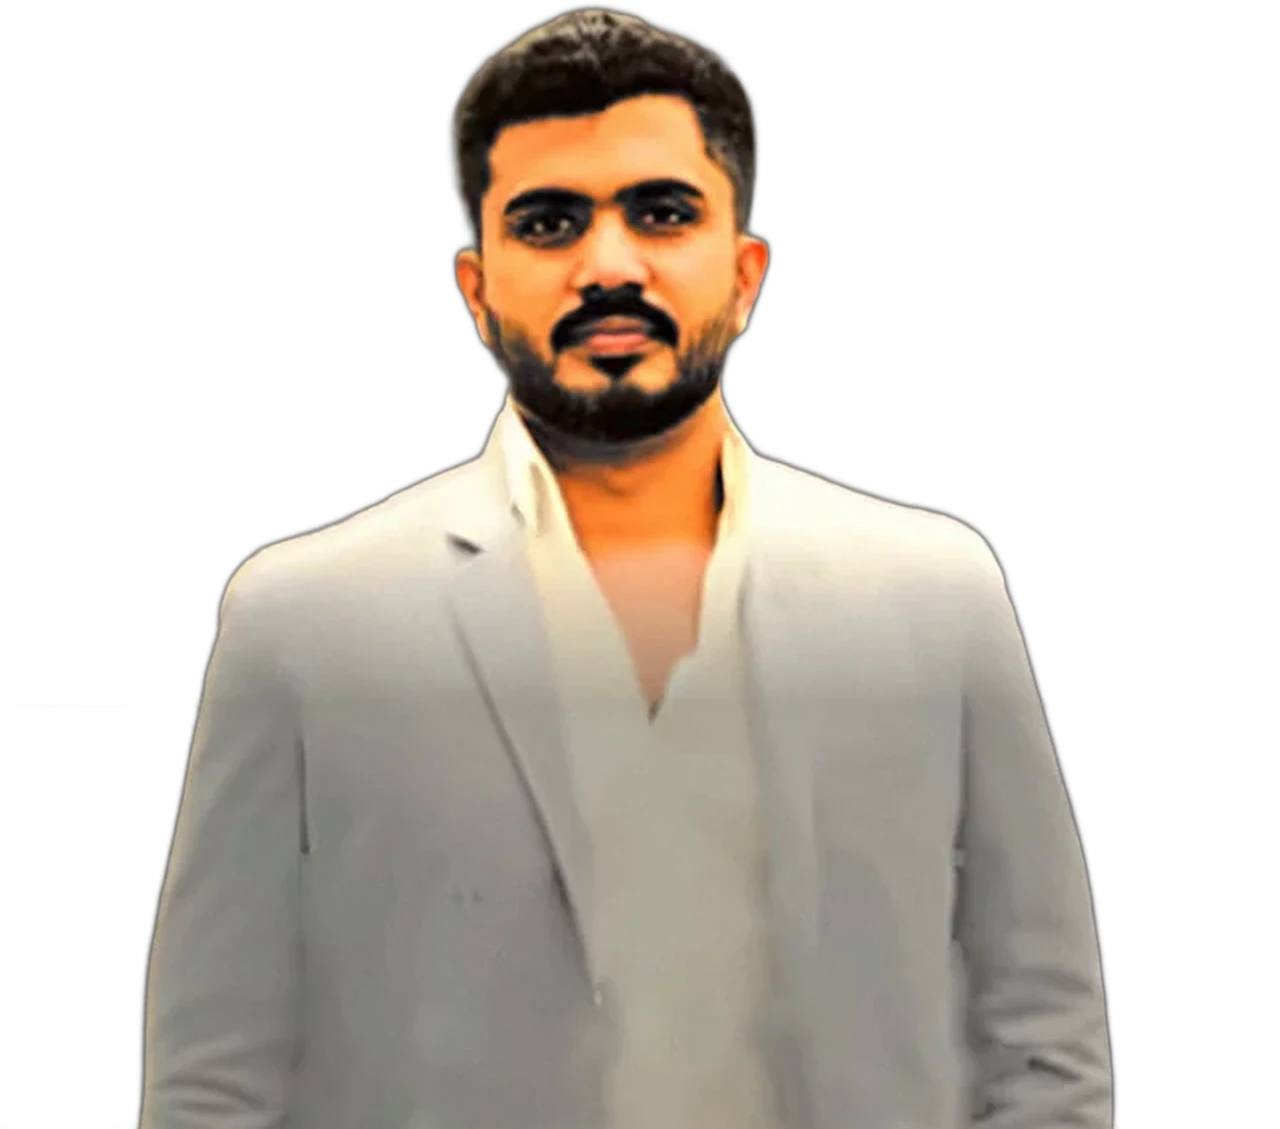
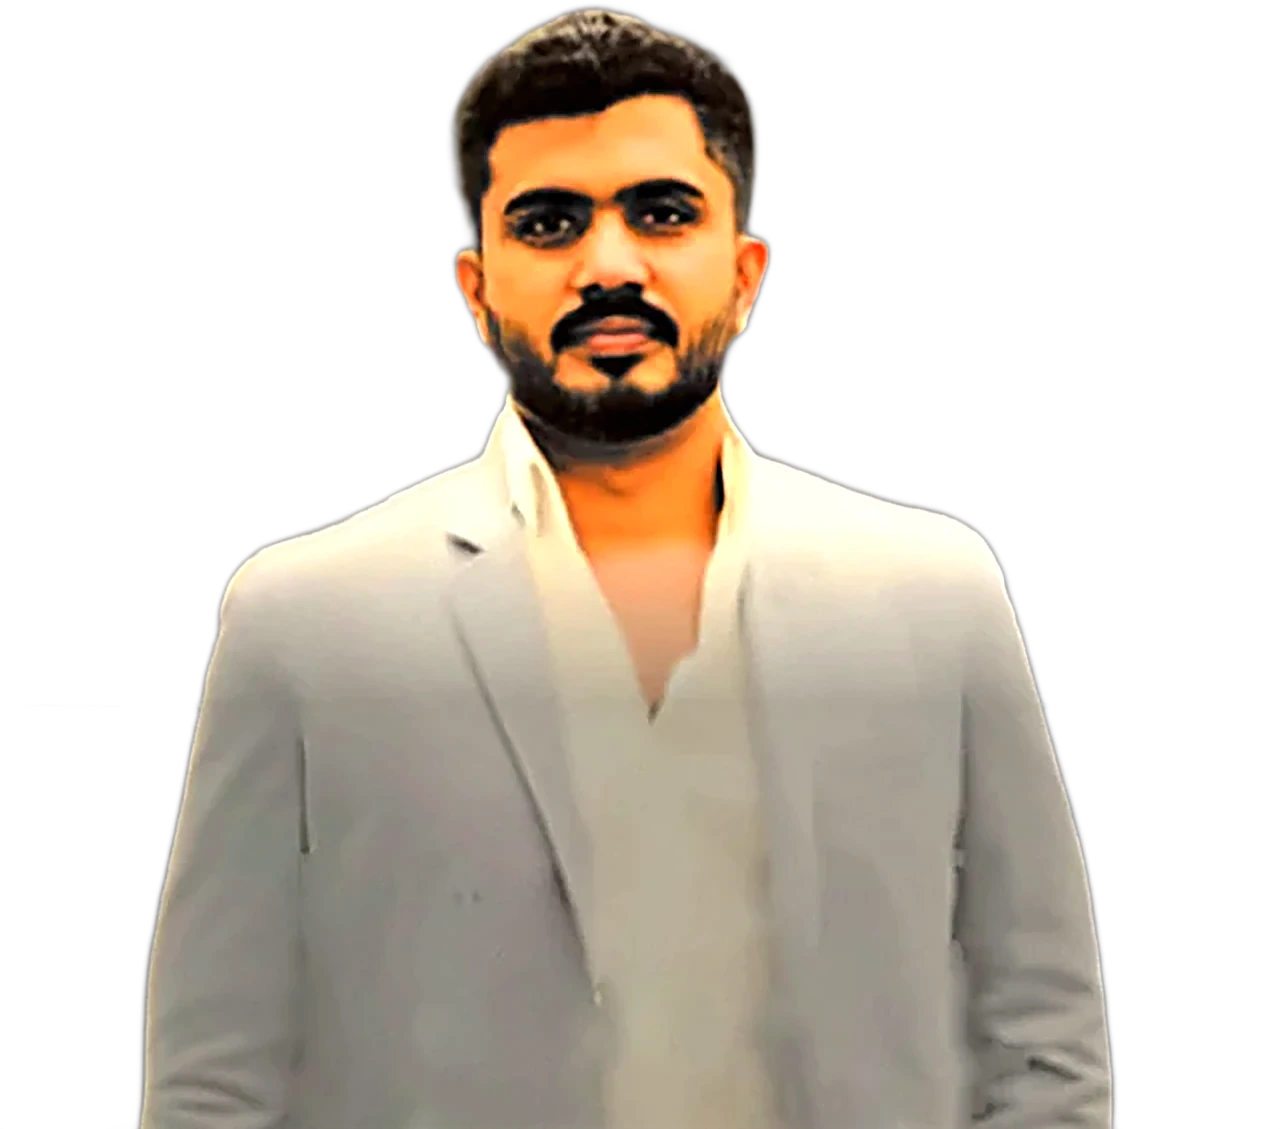
Add files via upload

diff --git a/index.html b/index.html
@@ -440,41 +440,57 @@ html:not(.js) .hero-h .strike::after{transform:none}
 .hero-codes span{display:inline-flex;align-items:center;gap:8px;padding-left:12px;border-left:2px solid var(--c-line-2)}
 .hero-codes em{font-style:normal;color:var(--c-accent)}
 
-/* cover figure */
-.cover{position:relative;margin:0;justify-self:center;width:min(100%,500px);aspect-ratio:4/4.7;transition:transform .7s var(--e-out)}
-.cv-frame{position:absolute;inset:9% 0 0 0;border-radius:28px 28px 22px 22px;overflow:hidden;border:1px solid var(--c-line-2);
-  background:linear-gradient(170deg,color-mix(in oklab,var(--c-paper-3) 92%,transparent),color-mix(in oklab,var(--c-paper-2) 70%,transparent));box-shadow:0 50px 90px -50px var(--c-shadow)}
-.cv-frame::before{content:"";position:absolute;inset:0;background-image:repeating-linear-gradient(to bottom,transparent 0 35px,var(--c-line) 35px 36px),repeating-linear-gradient(to right,transparent 0 79px,var(--c-line) 79px 80px);opacity:.8}
-.cv-frame::after{content:"";position:absolute;inset:auto 0 0 0;height:40%;background:linear-gradient(transparent,color-mix(in oklab,var(--c-paper) 80%,transparent))}
-.cv-chart{position:absolute;inset:0;width:100%;height:100%}
-.cv-chart .s1{stop-color:var(--c-accent);stop-opacity:.32}.cv-chart .s2{stop-color:var(--c-accent);stop-opacity:0}
+/* cover figure: frameless portrait, lit from behind */
+.cover{position:relative;margin:0;justify-self:center;width:min(100%,560px);aspect-ratio:4/4.5;--px:0;--py:0;isolation:isolate}
+.cv-glow{position:absolute;left:8%;right:8%;top:6%;bottom:18%;border-radius:50%;z-index:-2;
+  background:radial-gradient(closest-side,color-mix(in oklab,var(--c-accent) 34%,transparent),transparent 72%),radial-gradient(40% 40% at 72% 30%,color-mix(in oklab,var(--c-cool) 30%,transparent),transparent 70%);
+  filter:blur(28px);opacity:.85;transform:translate(calc(var(--px)*-18px),calc(var(--py)*-14px)) scale(1);animation:glow 7s ease-in-out infinite}
+@keyframes glow{50%{opacity:.6;scale:1.06}}
+.cv-ring{position:absolute;left:4%;right:4%;top:2%;width:92%;height:auto;z-index:-1;overflow:visible;transform:translate(calc(var(--px)*-10px),calc(var(--py)*-8px))}
+.cv-ring circle{fill:none}
+.cv-ring .r1{stroke:var(--c-line-2);stroke-width:1}
+.cv-ring .r3{stroke:var(--c-line);stroke-width:1;stroke-dasharray:2 7}
+.cv-ring .r2{stroke:var(--c-accent);stroke-width:2.2;stroke-linecap:round;stroke-dasharray:18 82;transform-origin:200px 200px;animation:orbit 18s linear infinite;filter:drop-shadow(0 0 6px var(--c-accent-glow))}
+@keyframes orbit{to{transform:rotate(360deg)}}
+.cv-chart{position:absolute;left:-6%;right:-6%;top:12%;bottom:8%;width:112%;height:80%;z-index:-1;-webkit-mask-image:radial-gradient(70% 70% at 50% 50%,#000 40%,transparent 100%);mask-image:radial-gradient(70% 70% at 50% 50%,#000 40%,transparent 100%);transform:translate(calc(var(--px)*-6px),calc(var(--py)*-4px))}
+.cv-chart .s1{stop-color:var(--c-accent);stop-opacity:.22}.cv-chart .s2{stop-color:var(--c-accent);stop-opacity:0}
 .cv-chart .area{fill:url(#cvg);opacity:0;transition:opacity 1.2s 1s var(--e-out)}
-.cv-chart .line{fill:none;stroke:var(--c-accent);stroke-width:2.4;stroke-linejoin:round;stroke-dasharray:1;stroke-dashoffset:1;vector-effect:non-scaling-stroke}
+.cv-chart .line{fill:none;stroke:var(--c-accent);stroke-width:2;stroke-linejoin:round;stroke-dasharray:1;stroke-dashoffset:1;vector-effect:non-scaling-stroke;opacity:.8}
 html.js.ready .cv-chart .line{transition:stroke-dashoffset 2.2s .3s var(--e-io);stroke-dashoffset:0}
 html.js.ready .cv-chart .area{opacity:1}
 html:not(.js) .cv-chart .line{stroke-dashoffset:0}
 .cv-chart .head{fill:var(--c-accent);filter:drop-shadow(0 0 8px var(--c-accent-glow))}
-.cv-axis{position:absolute;left:18px;top:16px;display:flex;gap:10px;align-items:center;font-size:11px;letter-spacing:.12em;color:var(--c-ink-3);z-index:1}
-.cv-axis b{color:var(--c-ink);font-weight:600}
-.cv-img{position:absolute;left:50%;bottom:0;width:104%;max-width:none;height:auto;transform:translateX(-50%);filter:drop-shadow(0 30px 40px var(--c-shadow));z-index:1;opacity:0;transition:opacity .8s var(--e-out)}
+.cv-floor{position:absolute;left:14%;right:14%;bottom:-2%;height:12%;border-radius:50%;z-index:-1;background:radial-gradient(closest-side,var(--c-shadow),transparent);filter:blur(10px)}
+.cv-imgw{position:absolute;left:50%;bottom:0;width:112%;z-index:1;pointer-events:none;
+  transform:translate(calc(-50% + var(--px)*8px),calc(var(--py)*5px));transition:transform .6s var(--e-out);
+  filter:drop-shadow(0 0 1px color-mix(in oklab,var(--c-accent) 35%,transparent)) drop-shadow(-6px -8px 22px color-mix(in oklab,var(--c-accent) 22%,transparent)) drop-shadow(0 40px 50px var(--c-shadow))}
+.cv-img{display:block;width:100%;max-width:none;height:auto;opacity:0;transition:opacity .9s var(--e-out);
+  -webkit-mask-image:linear-gradient(to bottom,#000 78%,transparent 99%);mask-image:linear-gradient(to bottom,#000 78%,transparent 99%)}
 .cv-img.in{opacity:1}
 html:not(.js) .cv-img{opacity:1}
-.cv-t1{position:absolute;left:-14px;top:22%;z-index:2}
-.spec-tag i{background:var(--c-cool)}
-.cv-card{position:absolute;right:-18px;top:30%;z-index:2;display:grid;gap:4px;padding:14px 16px;border-radius:16px;border:1px solid var(--c-line-2);background:color-mix(in oklab,var(--c-paper-3) 90%,transparent);backdrop-filter:blur(10px);box-shadow:0 24px 50px -28px var(--c-shadow);min-width:132px}
-.cv-card small{font-size:10.5px;letter-spacing:.12em;text-transform:uppercase;color:var(--c-ink-3)}
-.cv-card b{font-size:34px;line-height:1;color:var(--c-ink)}
-.cv-card .bars{display:flex;align-items:flex-end;gap:4px;height:26px;margin-top:4px}
-.cv-card .bars i{flex:1;height:var(--h);border-radius:2px 2px 0 0;background:var(--c-accent);opacity:.85;transform-origin:50% 100%}
-html.js.ready .cv-card .bars i{animation:grow .9s var(--e-out) both}
-.cv-card .bars i:nth-child(2){animation-delay:.08s}.cv-card .bars i:nth-child(3){animation-delay:.16s}.cv-card .bars i:nth-child(4){animation-delay:.24s}.cv-card .bars i:nth-child(5){animation-delay:.32s}.cv-card .bars i:nth-child(6){animation-delay:.4s}
+.cv-chip{position:absolute;z-index:2;border:1px solid var(--c-line-2);background:color-mix(in oklab,var(--c-paper-3) 72%,transparent);backdrop-filter:blur(14px) saturate(1.2);-webkit-backdrop-filter:blur(14px) saturate(1.2);box-shadow:0 24px 50px -28px var(--c-shadow),inset 0 1px 0 color-mix(in oklab,white 8%,transparent);
+  transform:translate(calc(var(--px)*var(--d,14px)),calc(var(--py)*var(--d,14px)));transition:transform .7s var(--e-out)}
+.cv-chip{animation:bob 6s ease-in-out infinite}
+@keyframes bob{50%{translate:0 -6px}}
+.cv-tick{left:2%;top:7%;display:flex;gap:10px;align-items:center;height:32px;padding:0 12px;border-radius:99px;font-size:11px;letter-spacing:.12em;color:var(--c-ink-3);--d:22px}
+.cv-tick b{color:var(--c-ink);font-weight:600}
+.cv-t1{left:-4%;top:30%;display:inline-flex;align-items:center;gap:8px;height:32px;padding:0 13px;border-radius:99px;font:500 11.5px var(--f-mono);letter-spacing:.08em;text-transform:uppercase;color:var(--c-ink-2);--d:-16px}
+.cv-t1 i{width:8px;height:8px;border-radius:50%;background:var(--c-cool);box-shadow:0 0 0 4px var(--c-cool-soft)}
+.cv-c1{right:-6%;top:22%;display:grid;gap:4px;padding:14px 16px;border-radius:18px;min-width:136px;--d:26px}
+.cv-c1 small{font-size:10.5px;letter-spacing:.12em;text-transform:uppercase;color:var(--c-ink-3)}
+.cv-c1 b{font-size:36px;line-height:1;color:var(--c-ink)}
+.cv-c1 .bars{display:flex;align-items:flex-end;gap:4px;height:26px;margin-top:4px}
+.cv-c1 .bars i{flex:1;height:var(--h);border-radius:2px 2px 0 0;background:var(--c-accent);opacity:.9;transform-origin:50% 100%}
+html.js.ready .cv-c1 .bars i{animation:grow .9s var(--e-out) both}
+.cv-c1 .bars i:nth-child(2){animation-delay:.08s}.cv-c1 .bars i:nth-child(3){animation-delay:.16s}.cv-c1 .bars i:nth-child(4){animation-delay:.24s}.cv-c1 .bars i:nth-child(5){animation-delay:.32s}.cv-c1 .bars i:nth-child(6){animation-delay:.4s}
 @keyframes grow{from{transform:scaleY(0)}}
-.cv-plate{position:absolute;left:18px;right:18px;bottom:18px;z-index:2;display:flex;justify-content:space-between;align-items:center;gap:12px;flex-wrap:wrap;padding:12px 16px;border-radius:14px;border:1px solid var(--c-line-2);background:color-mix(in oklab,var(--c-paper) 82%,transparent);backdrop-filter:blur(12px)}
+.cv-plate{right:4%;bottom:9%;display:grid;gap:2px;padding:12px 16px;border-radius:16px;--d:-12px}
 .cv-plate b{font:600 19px var(--f-display);letter-spacing:-.01em}
-.cv-plate small{font-size:11px;color:var(--c-ink-3);letter-spacing:.06em}
-@media (max-width:960px){.cover{width:min(100%,420px)}.cv-card{right:-4px}.cv-t1{left:-4px}}
-@media (max-width:520px){.cv-card{padding:10px 12px;min-width:110px}.cv-card b{font-size:26px}.cv-plate b{font-size:16px}}
-
+.cv-plate small{font-size:10.5px;color:var(--c-ink-3);letter-spacing:.06em}
+.cv-t1{animation-delay:-1.5s}.cv-c1{animation-delay:-3s}.cv-plate{animation-duration:8s;animation-delay:-4.5s}
+@media (max-width:960px){.cover{width:min(100%,460px)}.cv-c1{right:-2%}.cv-t1{left:-2%}}
+@media (max-width:520px){.cv-c1{padding:10px 12px;min-width:112px}.cv-c1 b{font-size:28px}.cv-plate{right:2%;bottom:6%}.cv-plate b{font-size:16px}.cv-tick{top:3%}}
+@media (prefers-reduced-motion:reduce){.cv-glow,.cv-ring .r2,.cv-chip{animation:none}}
 /* ticker tape */
 .tape{position:relative;z-index:2;border-block:1px solid var(--c-line-2);background:color-mix(in oklab,var(--c-paper-2) 85%,transparent);overflow:hidden;display:flex;-webkit-mask-image:linear-gradient(90deg,transparent,#000 6%,#000 94%,transparent);mask-image:linear-gradient(90deg,transparent,#000 6%,#000 94%,transparent)}
 .tape-track{display:flex;flex:none;animation:tape 60s linear infinite}
@@ -719,15 +735,16 @@ html.js.ready .cv-card .bars i{animation:grow .9s var(--e-out) both}
       </div>
       <div class="hero-codes mono" aria-label="Syllabuses taught"><span>7115 <em>→</em> 7081</span><span>0450 <em>→</em> 0264</span><span>9609</span></div>
     </div>
-    <figure class="cover" data-tilt="3">
-      <div class="cv-frame" aria-hidden="true">
-        <svg class="cv-chart" viewBox="0 0 400 460" preserveAspectRatio="none"><defs><linearGradient id="cvg" x1="0" y1="0" x2="0" y2="1"><stop offset="0" class="s1"/><stop offset="1" class="s2"/></linearGradient></defs><path class="area" d=""/><path class="line" d="" pathLength="1"/><circle class="head" r="5" cx="-20" cy="-20"/></svg>
-        <span class="cv-axis mono"><b>BIZ</b><span id="cvTick">O / A LEVEL</span></span>
-      </div>
-      <img class="cv-img" src="sohail-ahmed.webp" alt="Sir Sohail Ahmed" width="1280" height="1129" fetchpriority="high">
-      <span class="spec-tag cv-t1"><i></i>Cambridge certified</span>
-      <div class="cv-card cv-c1"><small class="mono">A* students</small><b class="serif-num"><span data-count="500">500</span><span class="pl">+</span></b><span class="bars" aria-hidden="true"><i style="--h:30%"></i><i style="--h:46%"></i><i style="--h:40%"></i><i style="--h:62%"></i><i style="--h:74%"></i><i style="--h:100%"></i></span></div>
-      <figcaption class="cv-plate"><b>Sir Sohail Ahmed</b><small class="mono">Business · O / A Level · Karachi</small></figcaption>
+    <figure class="cover" id="cover">
+      <span class="cv-glow" aria-hidden="true"></span>
+      <svg class="cv-ring" viewBox="0 0 400 400" aria-hidden="true"><circle class="r1" cx="200" cy="200" r="190"/><circle class="r2" cx="200" cy="200" r="190" pathLength="100"/><circle class="r3" cx="200" cy="200" r="150"/></svg>
+      <svg class="cv-chart" viewBox="0 0 400 460" preserveAspectRatio="none" aria-hidden="true"><defs><linearGradient id="cvg" x1="0" y1="0" x2="0" y2="1"><stop offset="0" class="s1"/><stop offset="1" class="s2"/></linearGradient></defs><path class="area" d=""/><path class="line" d="" pathLength="1"/><circle class="head" r="5" cx="-20" cy="-20"/></svg>
+      <span class="cv-floor" aria-hidden="true"></span>
+      <span class="cv-imgw"><img class="cv-img" src="sohail-ahmed.webp" alt="Sir Sohail Ahmed" width="1280" height="1129" fetchpriority="high"></span>
+      <span class="cv-chip cv-tick mono" aria-hidden="true"><b>BIZ</b><span id="cvTick">O / A LEVEL</span></span>
+      <span class="cv-chip cv-t1"><i></i>Cambridge certified</span>
+      <div class="cv-chip cv-c1"><small class="mono">A* students</small><b class="serif-num"><span data-count="500">500</span><span class="pl">+</span></b><span class="bars" aria-hidden="true"><i style="--h:30%"></i><i style="--h:46%"></i><i style="--h:40%"></i><i style="--h:62%"></i><i style="--h:74%"></i><i style="--h:100%"></i></span></div>
+      <figcaption class="cv-chip cv-plate"><b>Sir Sohail Ahmed</b><small class="mono">Business · O / A Level · Karachi</small></figcaption>
     </figure>
   </div>
   <div class="tape" aria-hidden="true"><div class="tape-track" id="tapeA"></div></div>
@@ -1623,7 +1640,12 @@ $$("[data-count]").forEach(el=>{ if(RM||el.getBoundingClientRect().top<innerHeig
   const run=()=>{ const t0=performance.now(); (function f(t){ const p=Math.min(1,(t-t0)/1600), e=1-Math.pow(1-p,4); el.textContent=Math.round(end*e); if(p<1) requestAnimationFrame(f); })(t0); };
   const io=new IntersectionObserver(es=>{ if(es[0].isIntersecting){ run(); io.disconnect(); } },{threshold:.4}); io.observe(el); });
 
-/* cover: portrait fades in once decoded; growth chart draws behind it */
+/* cover: frameless portrait with layered parallax */
+const cover=$("#cover"), heroEl=$(".hero"); if(cover&&heroEl&&FINE&&!RM){ let tx=0,ty=0,cx=0,cy=0,raf=0;
+  const loop=()=>{ cx+=(tx-cx)*.08; cy+=(ty-cy)*.08; cover.style.setProperty("--px",cx.toFixed(3)); cover.style.setProperty("--py",cy.toFixed(3)); raf=(Math.abs(tx-cx)+Math.abs(ty-cy)>.001)?requestAnimationFrame(loop):0; };
+  heroEl.addEventListener("pointermove",e=>{ const r=cover.getBoundingClientRect(); tx=Math.max(-1,Math.min(1,(e.clientX-(r.left+r.width/2))/(r.width))); ty=Math.max(-1,Math.min(1,(e.clientY-(r.top+r.height/2))/(r.height))); if(!raf) raf=requestAnimationFrame(loop); });
+  heroEl.addEventListener("pointerleave",()=>{ tx=ty=0; if(!raf) raf=requestAnimationFrame(loop); }); }
+/* portrait fades in once decoded; growth chart draws behind it */
 const img=$(".cv-img"); if(img){ const on=()=>img.classList.add("in"); if(img.complete&&img.naturalWidth) on(); else { img.addEventListener("load",on,{once:true}); img.addEventListener("error",on,{once:true}); } }
 const cv=$(".cv-chart"); if(cv){ let s=11, y=360; const rnd=()=>{ s=(s*16807)%2147483647; return s/2147483647; }; const pts=[];
   for(let i=0;i<=26;i++){ const x=i/26*400; y=Math.max(70,Math.min(400,y-(rnd()-.36)*34)); pts.push([x,y]); }

diff --git a/about.html b/about.html
@@ -426,9 +426,9 @@ input[type=range]:active::-webkit-slider-thumb{transform:scale(1.15)}
 .ab-grid{display:grid;grid-template-columns:minmax(0,.85fr) minmax(0,1.15fr);gap:clamp(32px,5vw,80px);align-items:center}
 @media (max-width:900px){.ab-grid{grid-template-columns:1fr}}
 .ab-portrait{position:relative;margin:0;aspect-ratio:4/4.6;max-width:460px;width:100%;justify-self:center;transition:transform .6s var(--e-out)}
-.ab-disc{position:absolute;left:4%;right:4%;bottom:0;aspect-ratio:1;border-radius:46% 54% 50% 50% / 52% 48% 52% 48%;background:radial-gradient(60% 60% at 40% 40%,color-mix(in oklab,var(--c-accent) 34%,transparent),transparent 72%),radial-gradient(70% 70% at 70% 80%,color-mix(in oklab,var(--c-cool) 26%,transparent),transparent 70%),var(--c-paper-2);border:1px solid var(--c-line-2);animation:morph 14s ease-in-out infinite}
-@keyframes morph{50%{border-radius:56% 44% 42% 58% / 44% 58% 42% 56%}}
-.ab-portrait img{position:absolute;left:50%;bottom:0;width:104%;max-width:none;height:auto;transform:translateX(-50%);filter:drop-shadow(0 30px 40px var(--c-shadow));-webkit-mask-image:linear-gradient(#000 90%,transparent);mask-image:linear-gradient(#000 90%,transparent)}
+.ab-disc{position:absolute;left:6%;right:6%;top:8%;bottom:14%;border-radius:50%;background:radial-gradient(closest-side,color-mix(in oklab,var(--c-accent) 32%,transparent),transparent 72%),radial-gradient(40% 40% at 70% 28%,color-mix(in oklab,var(--c-cool) 28%,transparent),transparent 70%);filter:blur(26px);animation:abglow 7s ease-in-out infinite}
+@keyframes abglow{50%{opacity:.65;scale:1.05}}
+.ab-portrait img{position:absolute;left:50%;bottom:0;width:104%;max-width:none;height:auto;transform:translateX(-50%);-webkit-mask-image:linear-gradient(#000 80%,transparent 99%);mask-image:linear-gradient(#000 80%,transparent 99%)}
 .ab-t{position:absolute;left:0;top:14%;z-index:2}
 .ab-copy{display:grid;gap:var(--s-4)}
 .ab-copy h1{font-size:var(--t-3xl);font-weight:600;letter-spacing:-.02em;line-height:1}
@@ -464,6 +464,12 @@ input[type=range]:active::-webkit-slider-thumb{transform:scale(1.15)}
 .v-play{flex:none;width:54px;height:54px;border-radius:50%;background:var(--c-accent);color:var(--c-on-accent);display:grid;place-items:center;box-shadow:0 0 0 10px var(--c-accent-soft)}
 .v-play svg{width:22px;height:22px}
 .final-h{font-size:clamp(36px,6.6vw,96px);font-weight:600;letter-spacing:-.02em;line-height:1;max-width:13ch}
+.ab-ring{position:absolute;left:6%;top:4%;width:88%;height:auto;overflow:visible;z-index:0}
+.ab-ring circle{fill:none}.ab-ring .r1{stroke:var(--c-line-2);stroke-width:1}
+.ab-ring .r2{stroke:var(--c-accent);stroke-width:2.2;stroke-linecap:round;stroke-dasharray:16 84;transform-origin:200px 200px;animation:aborb 20s linear infinite;filter:drop-shadow(0 0 6px var(--c-accent-glow))}
+@keyframes aborb{to{transform:rotate(360deg)}}
+.ab-portrait img{z-index:1}.ab-t{z-index:2}
+.ab-portrait{filter:drop-shadow(0 0 1px color-mix(in oklab,var(--c-accent) 35%,transparent)) drop-shadow(-6px -8px 22px color-mix(in oklab,var(--c-accent) 22%,transparent))}
 
 </style>
 </head>
@@ -484,8 +490,8 @@ input[type=range]:active::-webkit-slider-thumb{transform:scale(1.15)}
 <main id="main">
 <section class="ab-hero">
   <div class="wrap ab-grid">
-    <figure class="ab-portrait" data-tilt="4">
-      <span class="ab-disc" aria-hidden="true"></span>
+    <figure class="ab-portrait">
+      <span class="ab-disc" aria-hidden="true"></span><svg class="cv-ring ab-ring" viewBox="0 0 400 400" aria-hidden="true"><circle class="r1" cx="200" cy="200" r="190"/><circle class="r2" cx="200" cy="200" r="190" pathLength="100"/></svg>
       <img src="sohail-ahmed.webp" alt="Sir Sohail Ahmed" width="1280" height="1129">
       <span class="spec-tag ab-t"><i></i>Business · O / A Level</span>
     </figure>
